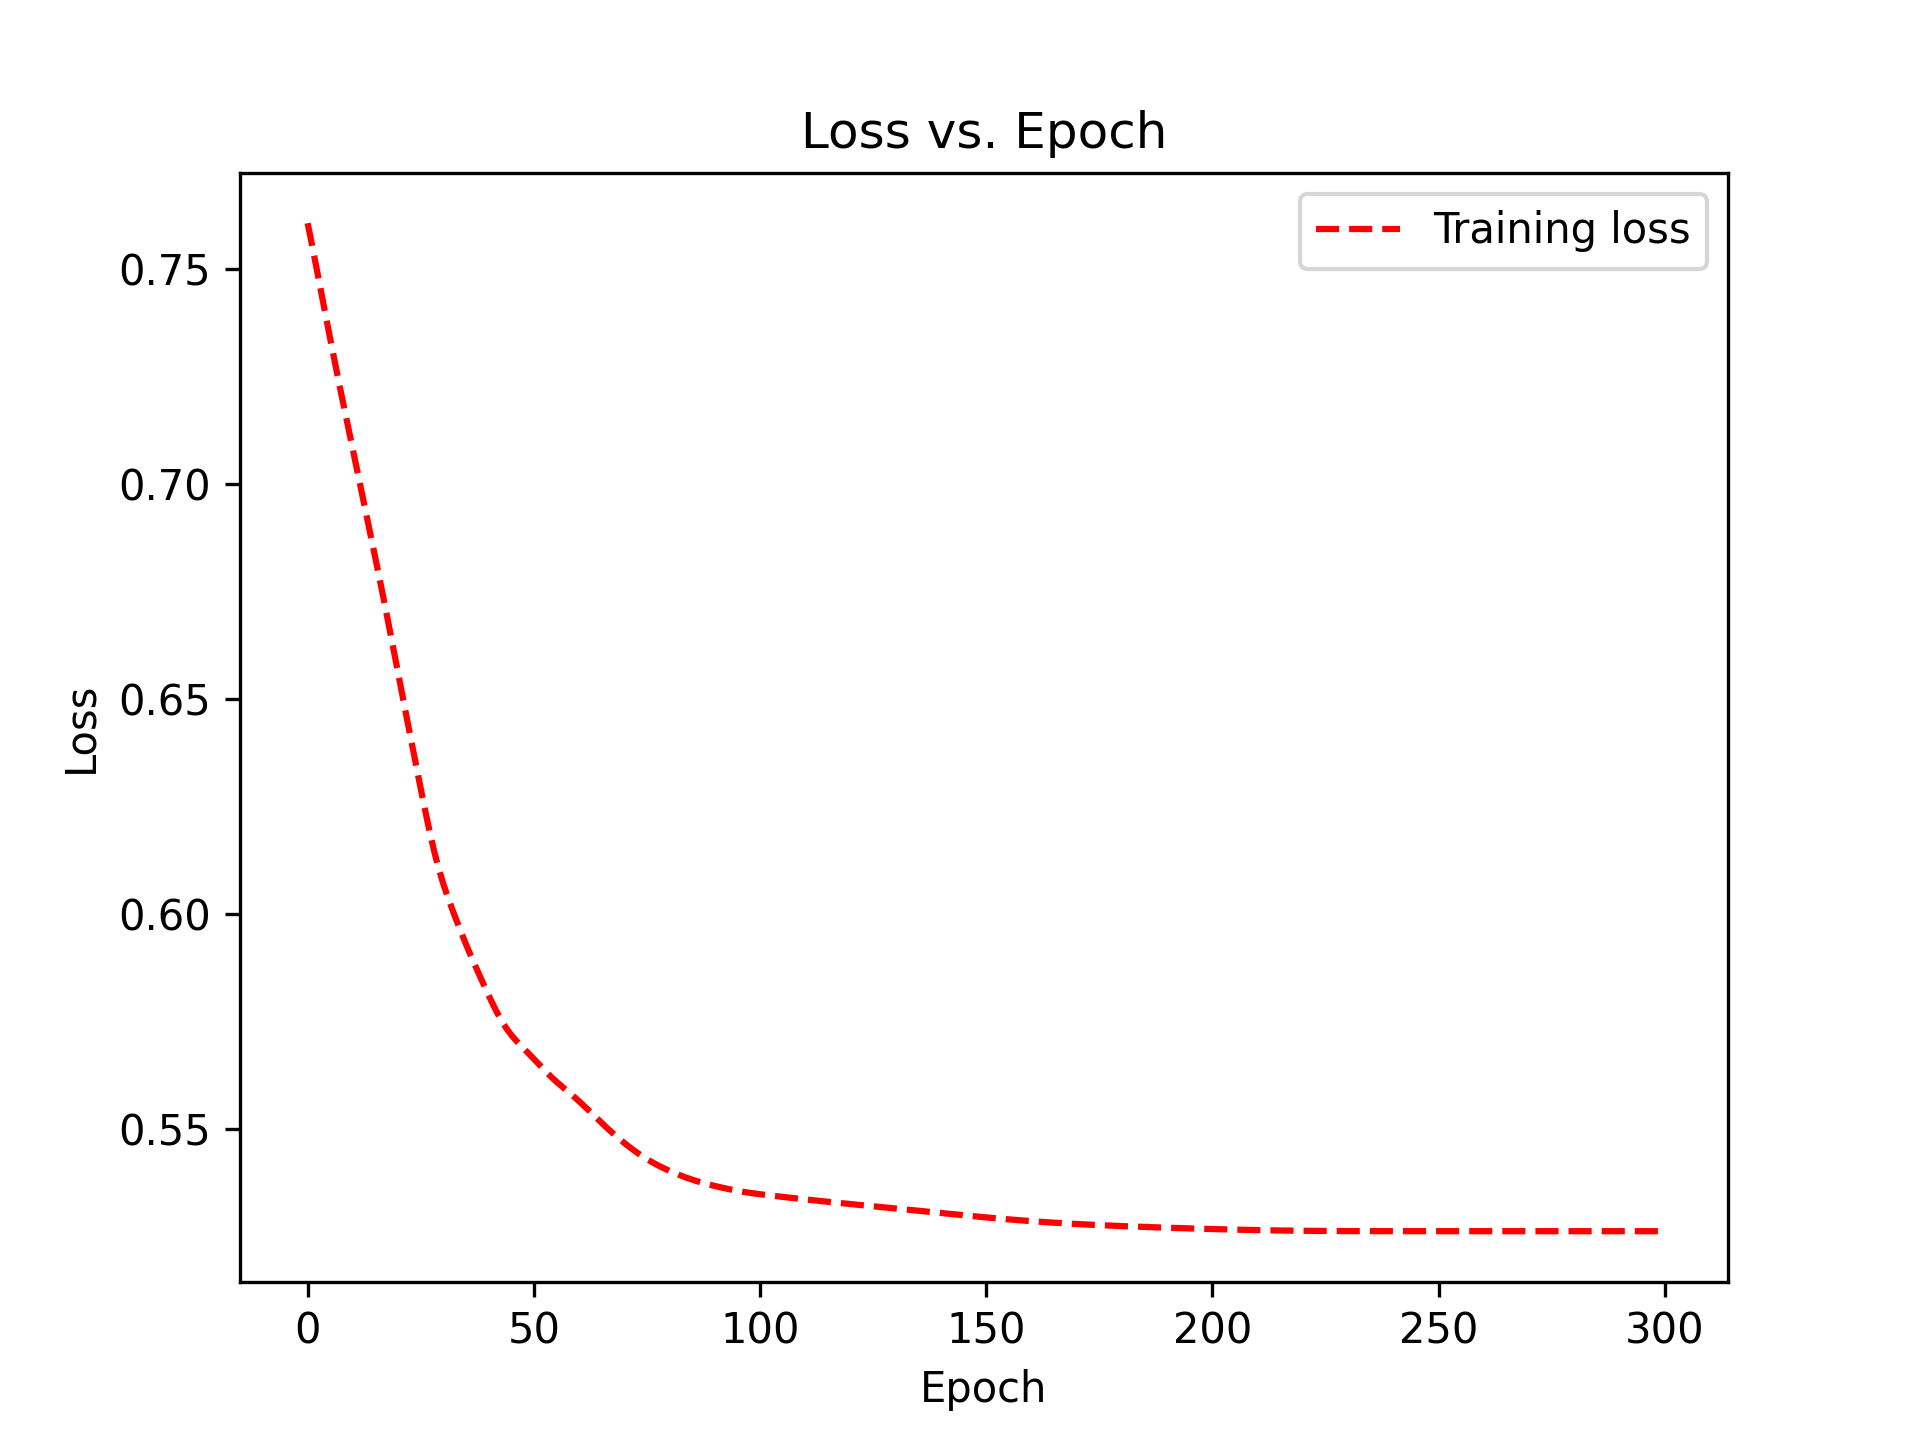
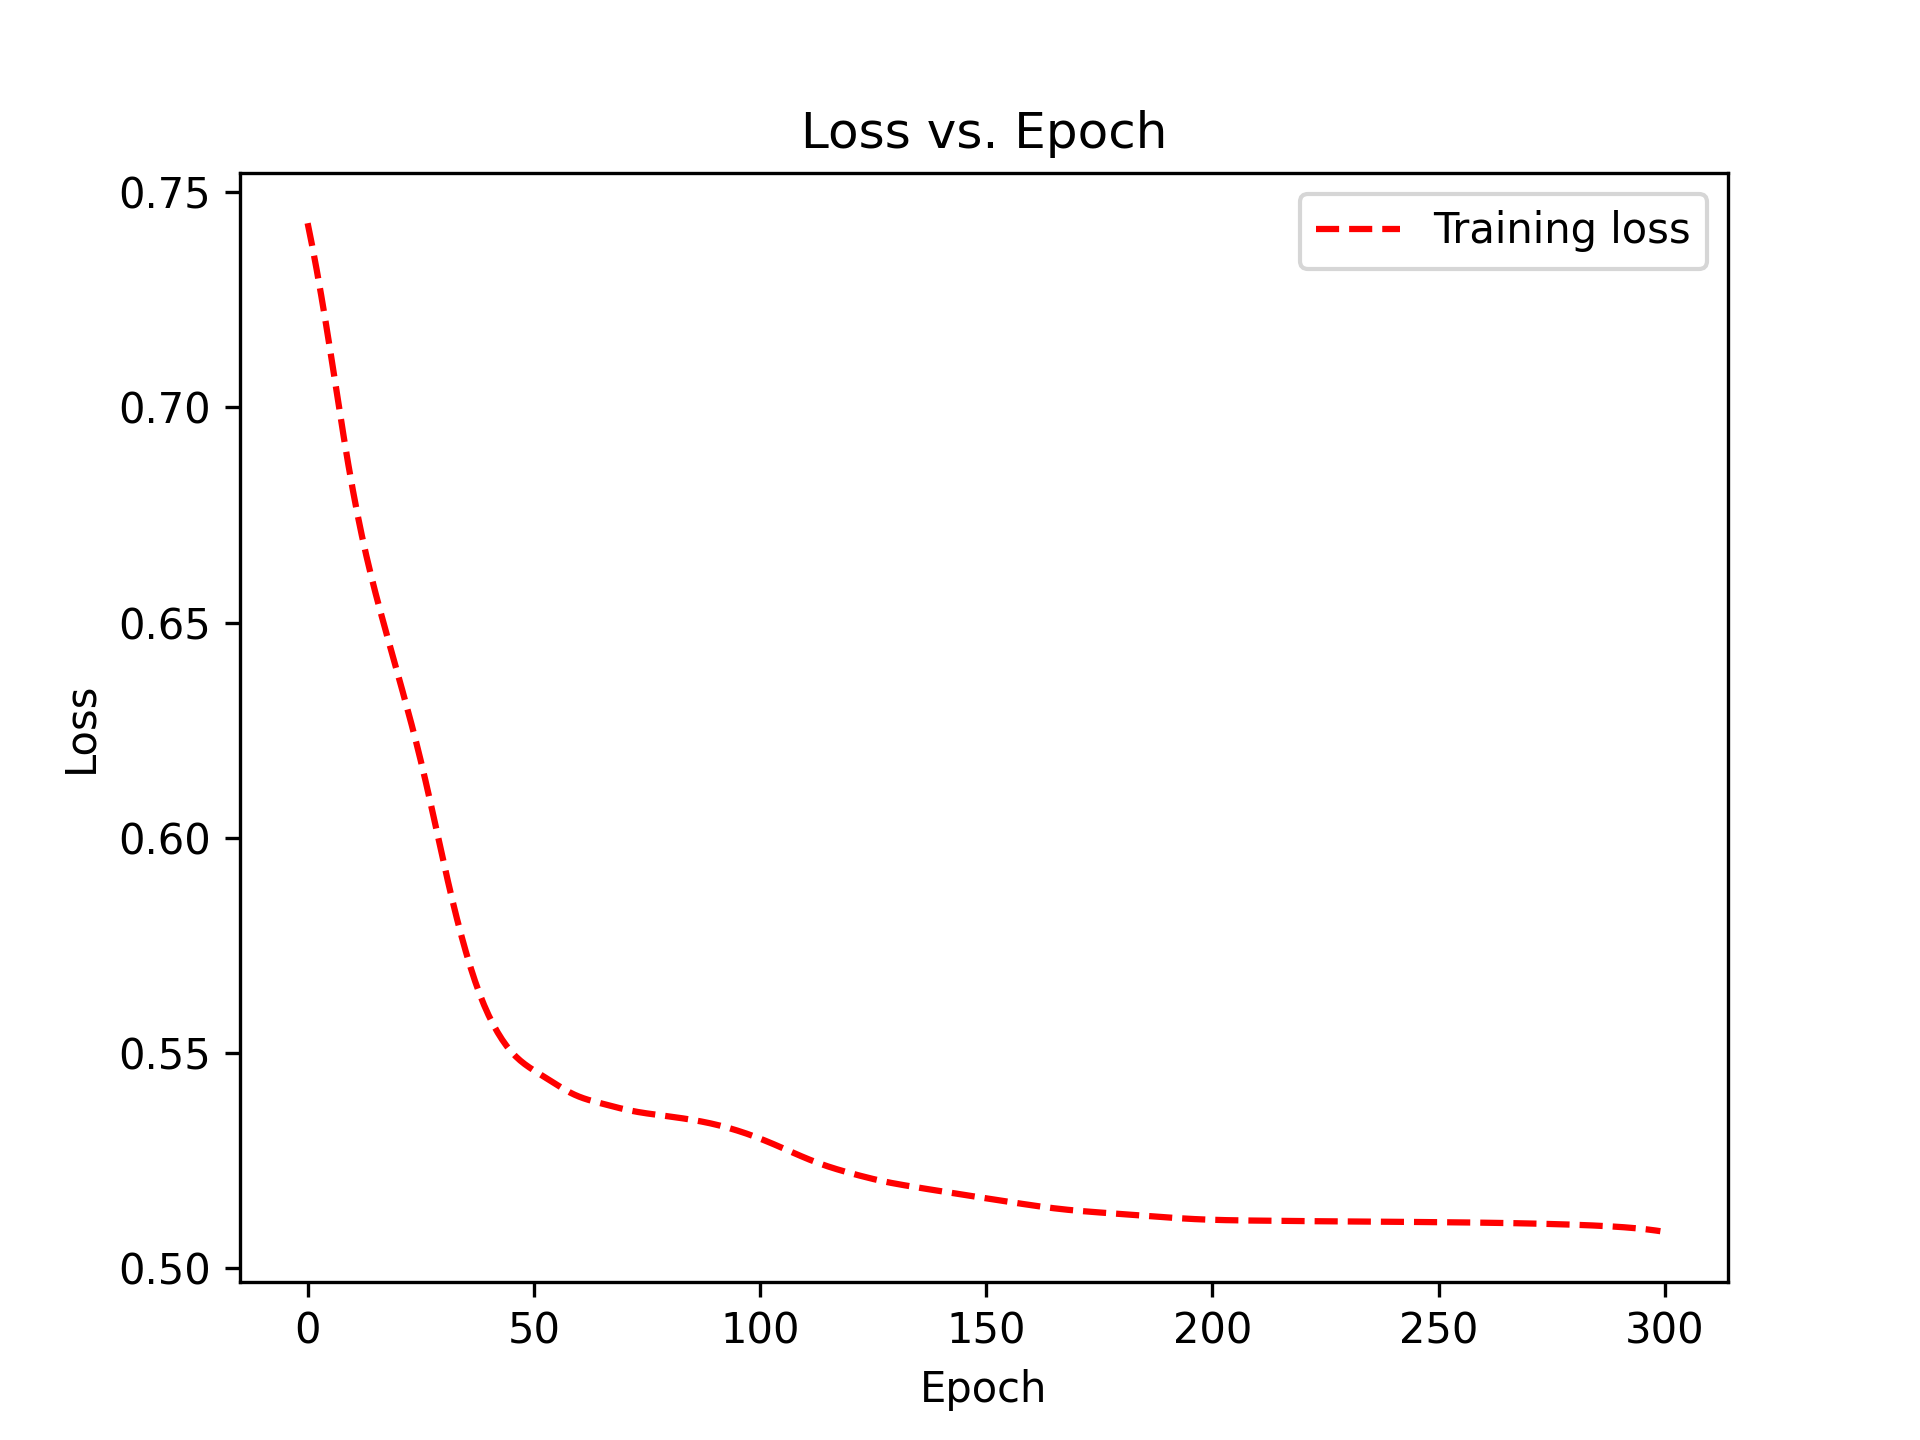
data_reuploading_bs

diff --git a/src/quantum_model_datareuplodaing.py b/src/quantum_model_datareuplodaing.py
@@ -17,8 +17,9 @@ y_valid = np.load("../data/processed/y_valq_tf.npy")
 y_train = 2 * y_train - 1
 y_test  = 2 * y_test  - 1
 y_valid = 2 * y_valid - 1
-n_qubits = 4 # change to pca values
+n_qubits = 6 # change to pca values
 dev = qml.device("default.qubit", wires=n_qubits)
+
 
 H = qml.Hamiltonian(
     coeffs=[1/n_qubits] * n_qubits,
@@ -33,16 +34,22 @@ def feature_encoding(finger):
     #qml.AngleEmbedding(features=finger, wires=range(n_qubits), rotation='X')
     qml.AngleEmbedding(features=finger, wires=range(n_qubits), rotation='Y')
     #qml.AmplitudeEmbedding(finger, wires=range(n_qubits), normalize=True)
-    return [qml.expval(qml.PauliZ(i)) for i in range(4)]
+    return [qml.expval(qml.PauliZ(i)) for i in range(6)]
 
 @qml.qnode(dev, interface='autograd')
 def variational_circuit(params, x):
     # Encode features into qubits
-    feature_encoding(x)
-    
+    x_chunks = [] 
+    for i in range(0, len(x), 5):
+        x_chunks.append(x[i:i+6])
+    #print(len(x_chunks))
+    #print("x_chunks")
+    #print(x_chunks)
     # params shape: (num_layers, n_qubits, 3)
     # Each qubit in each layer has 3 parameters for RX, RY, and RZ rotations
-    for layer_params in params:
+    for i_layer, layer_params in enumerate(params):
+        qml.AngleEmbedding(features=x_chunks[i_layer % len(x_chunks)], wires=range(n_qubits), rotation='Y')
+        #feature_encoding(x_chunks[i_layer])
         for i, wire_params in enumerate(layer_params):
             qml.RX(wire_params[0], wires=i)
             qml.RY(wire_params[1], wires=i)

diff --git a/src/quantum_data_reupload.py b/src/quantum_data_reupload.py
@@ -17,7 +17,7 @@ def accuracy(params, X, Y):
 X_test = np.load("../data/processed/X_trainq.npy")
 y_test = np.load("../data/processed/y_trainq_tf.npy")
 y_test  = 2 * y_test  - 1
-n_qubits = params.shape[1]
+n_qubits = 6
 
 dev = qml.device("default.qubit", wires=n_qubits)
 
@@ -37,11 +37,15 @@ def feature_encoding(finger):
 @qml.qnode(dev, interface='autograd')
 def variational_circuit(params, x):
     # Encode features into qubits
-    feature_encoding(x)
-
+    #feature_encoding(x)
+    x_chunks = []
+    for i in range(0, len(x), 5):
+        x_chunks.append(x[i:i+6])
     # params shape: (num_layers, n_qubits, 3)
     # Each qubit in each layer has 3 parameters for RX, RY, and RZ rotations
-    for layer_params in params:
+    for i_layer, layer_params in enumerate(params):
+        #feature_encoding(x_chunks[i_layer])
+        qml.AngleEmbedding(features = x_chunks[i_layer % len(x_chunks)], wires = range(n_qubits), rotation = 'Y')
         for i, wire_params in enumerate(layer_params):
             qml.RX(wire_params[0], wires=i)
             qml.RY(wire_params[1], wires=i)

diff --git a/src/preprocess.py b/src/preprocess.py
@@ -227,7 +227,7 @@ X_train_scaled = scalar.fit_transform(Xtrainsampled)
 X_val_scaled = scalar.transform(Xvalsampled)
 X_test_scaled = scalar.transform(Xtestsampled)
 print("before pca")
-pca = PCA(n_components=4)
+pca = PCA(n_components=6)
 X_trainq = pca.fit_transform(X_train_scaled)
 X_valq  = pca.transform(X_val_scaled)
 X_testq  = pca.transform(X_test_scaled)

diff --git a/src/classical_model.py b/src/classical_model.py
@@ -33,7 +33,7 @@ xgb_test = xgb.DMatrix(X_testc, y_testc, enable_categorical=True)
 
 params = {
     'objective': 'binary:logistic',
-    'max_depth': 4,
+    'max_depth': 6,
     'learning_rate': 0.05,
     'scale_pos_weight': 1, #27.85614
     'eval_metric': 'auc',
